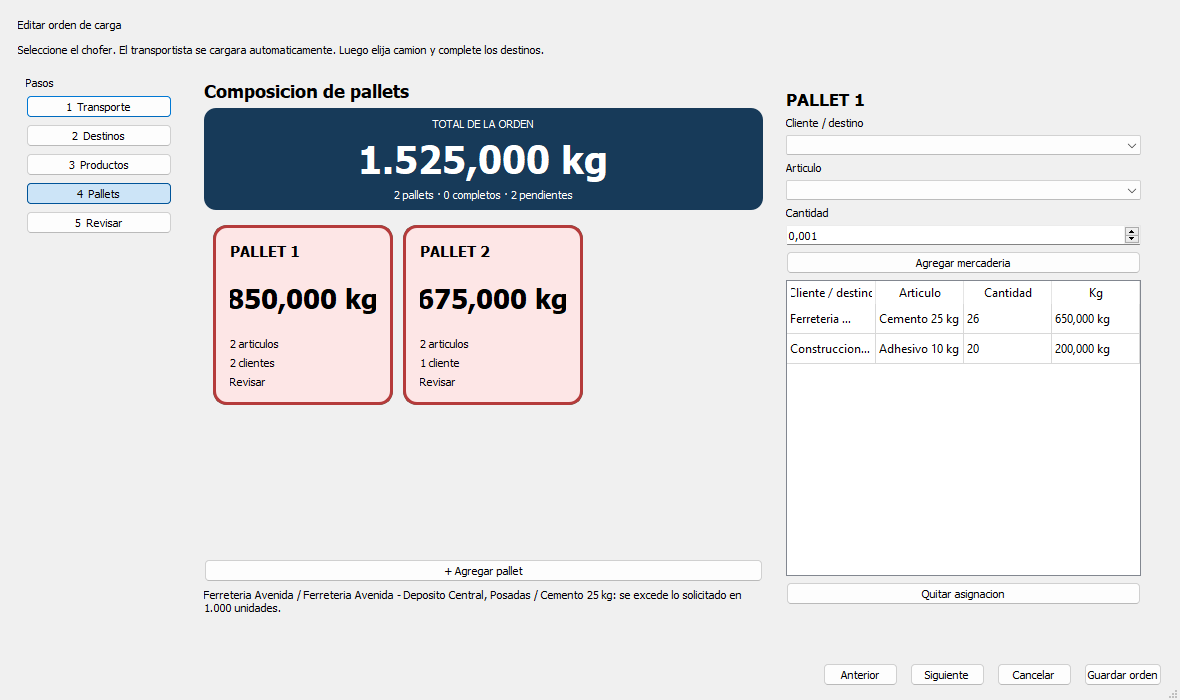
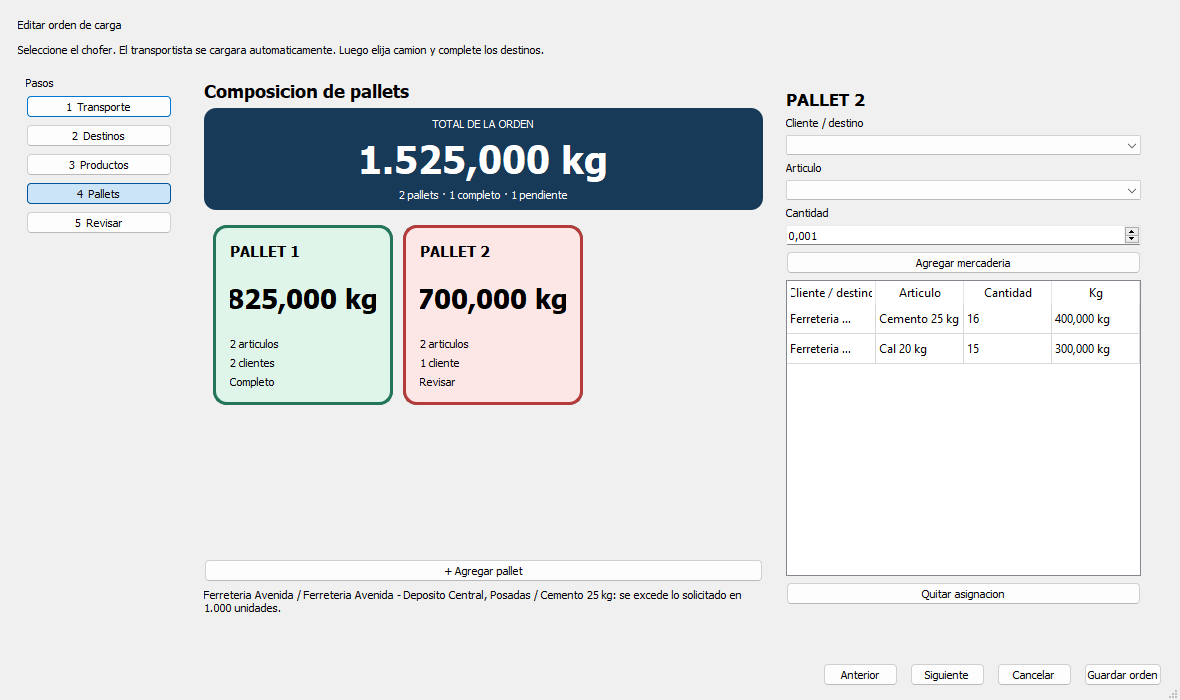
test(ui): align excess evidence with pallet state

diff --git a/scripts/generate_ux_screenshots.py b/scripts/generate_ux_screenshots.py
@@ -264,7 +264,8 @@ def generate(output_dir: Path) -> list[Path]:
     targets.append(output_dir / "03_editar_orden_reconstruida.png")
     _capture(edit_dialog, targets[-1])
 
-    edit_dialog.pallet_widget.add_allocation(1, data["address_a"].id, data["cement"].id, 1)
+    edit_dialog.pallet_widget.add_allocation(2, data["address_a"].id, data["cement"].id, 1)
+    edit_dialog.pallet_widget._select_pallet(2)
     app.processEvents()
     targets.append(output_dir / "04_estado_rojo_excedente.png")
     _capture(edit_dialog, targets[-1])